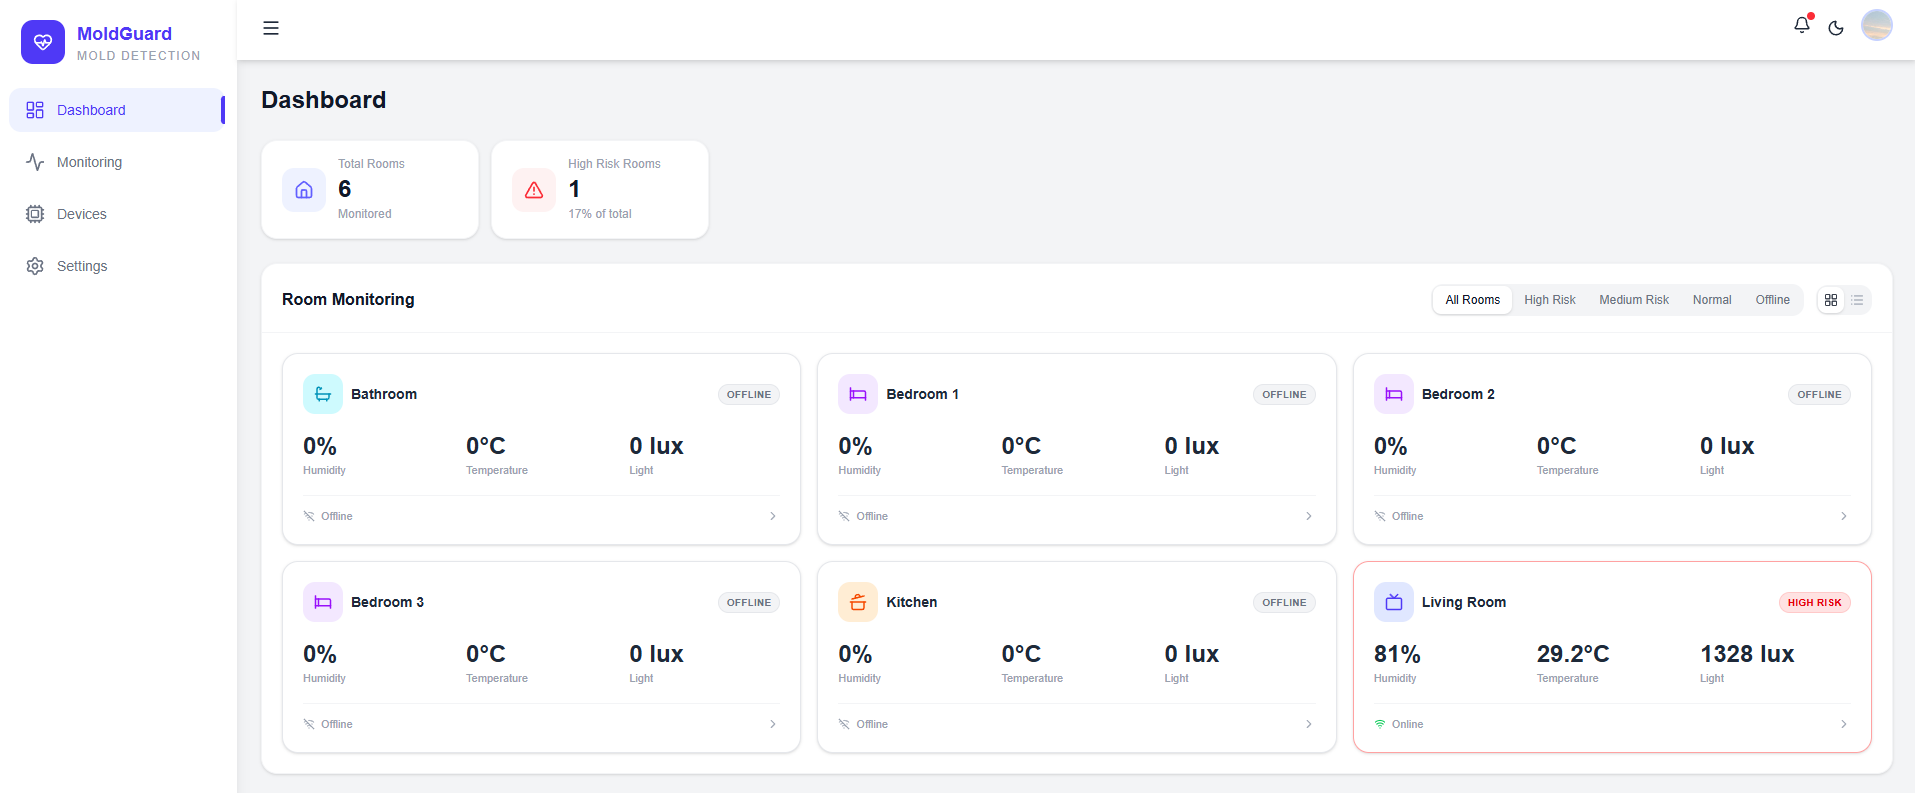
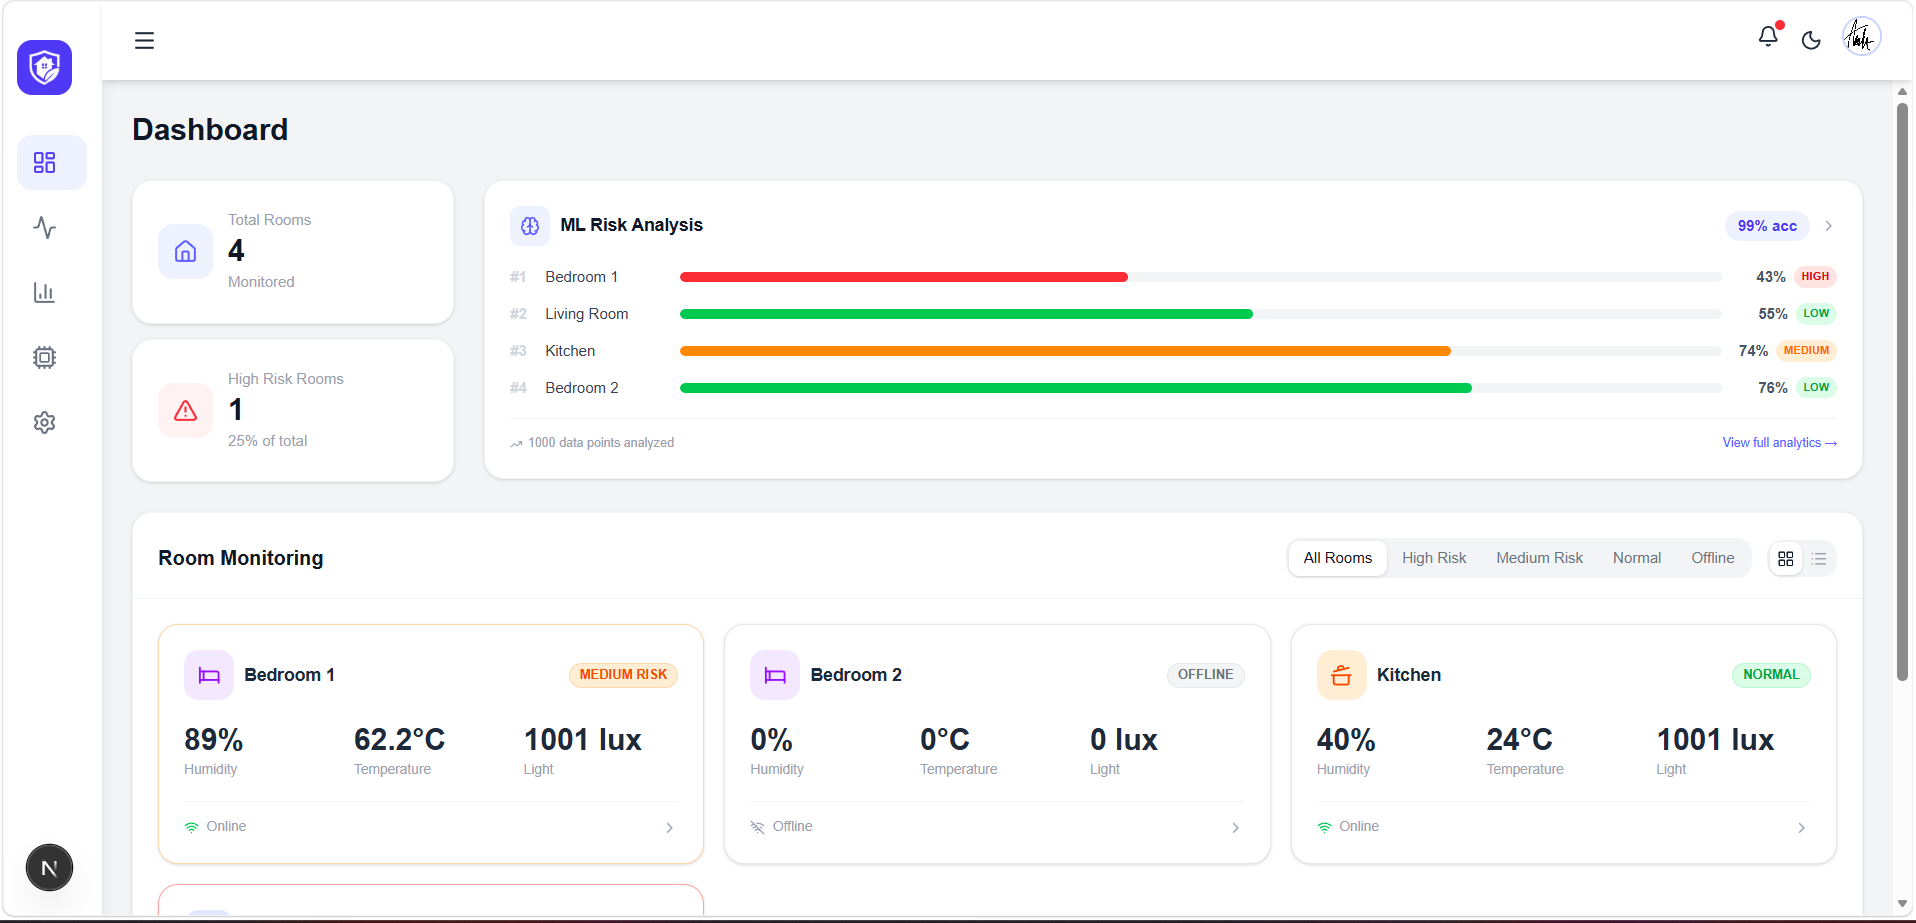
landing page fixed

diff --git a/components/landing/HeroSection.tsx b/components/landing/HeroSection.tsx
@@ -1,4 +1,5 @@
 import Link from "next/link"
+import Image from "next/image"
 
 export default function HeroSection() {
   return (
@@ -39,11 +40,16 @@ export default function HeroSection() {
       </div>
 
       <div className="rounded-3xl bg-white p-3 shadow-2xl shadow-slate-300">
-        <img
-          src="/images/landing/hero-dashboard.png"
-          alt="MoldGuard dashboard preview"
-          className="h-[260px] w-full rounded-2xl object-cover md:h-[360px]"
-        />
+        <div className="relative h-[260px] md:h-[260px] w-full rounded-2xl overflow-hidden bg-gray-50">
+          <Image
+            src="/images/landing/hero-dashboard.png"
+            alt="MoldGuard dashboard preview"
+            fill
+            sizes="(max-width: 768px) 100vw, 50vw"
+            className="object-contain object-center"
+            priority
+          />
+        </div>
       </div>
     </section>
   )

diff --git a/middleware.ts b/middleware.ts
@@ -73,5 +73,5 @@ export async function middleware(request: NextRequest) {
 }
 
 export const config = {
-  matcher: ["/((?!api|_next/static|_next/image|favicon.ico).*)"],
+  matcher: ["/((?!api|_next/static|_next/image|images|favicon.ico).*)"],
 }
